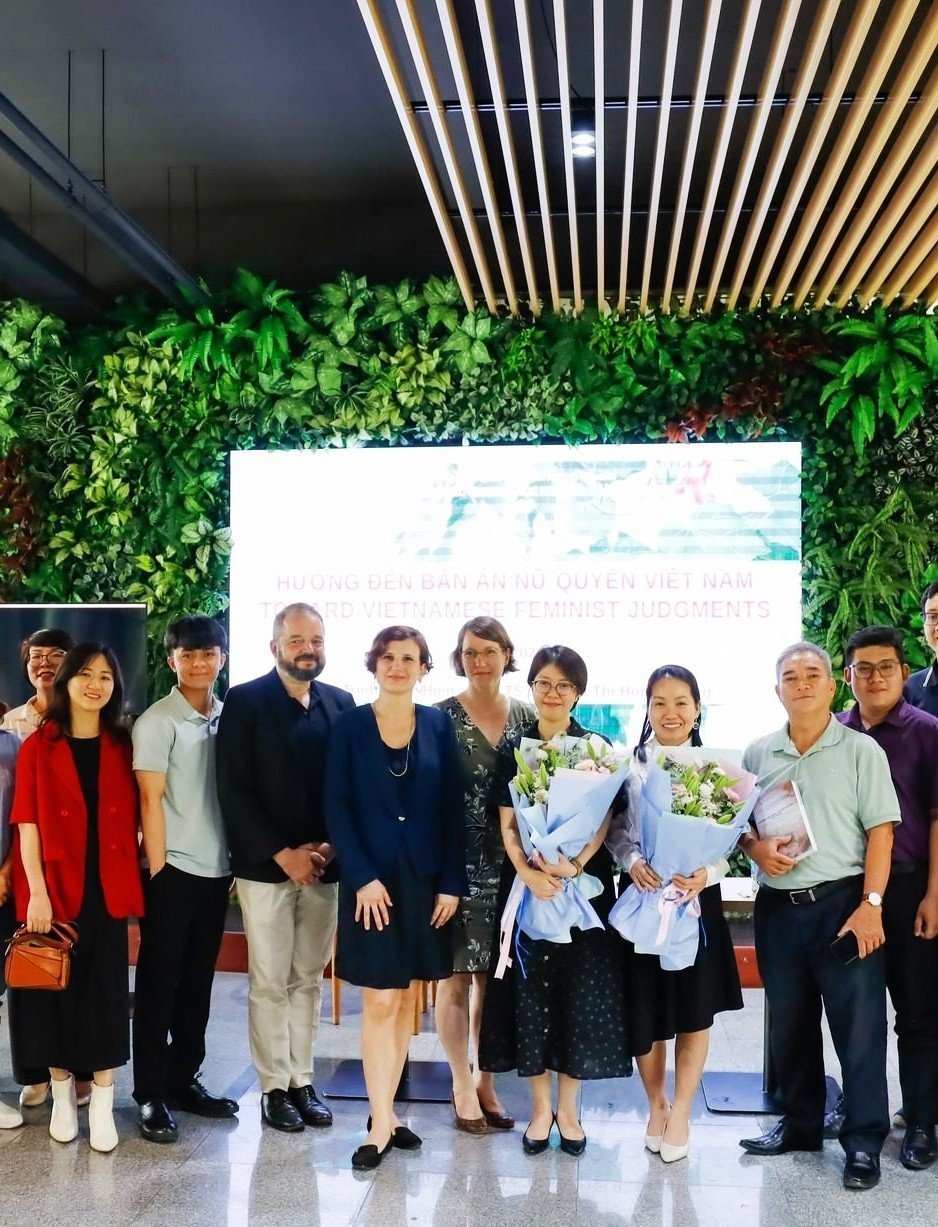
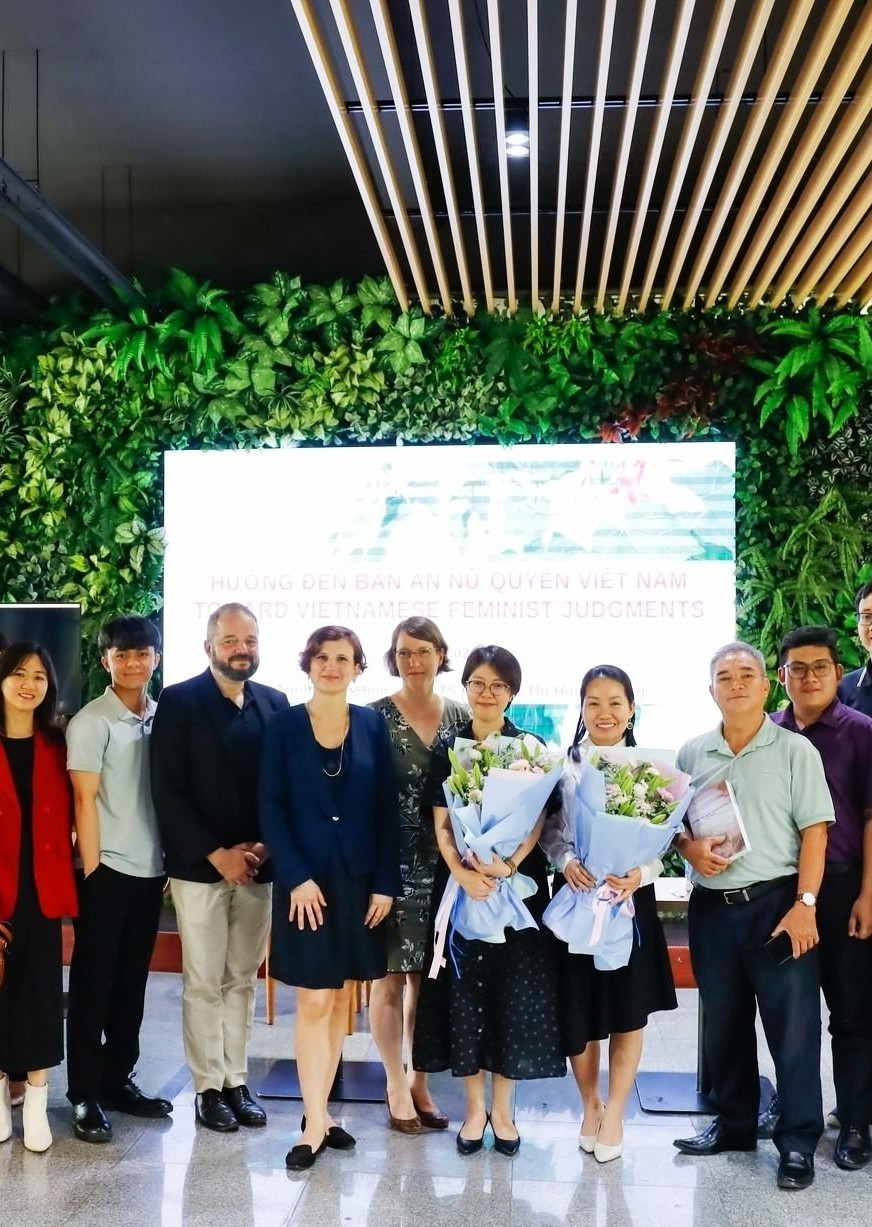
update

diff --git a/works/index.html b/works/index.html
@@ -34,7 +34,7 @@
             align-items: center;
             margin: 0;
             background: #0f1c2d url('https://images.unsplash.com/photo-1507842217343-583bb7270b66?auto=format&fit=crop&q=80&w=2000') no-repeat center center / cover;
-            padding: clamp(64px, 8vh, 96px) 0 clamp(132px, 15vh, 168px);
+            padding: 40px 0 80px;
             color: #fff;
             overflow: hidden;
         }
@@ -76,16 +76,17 @@
             z-index: 10;
             width: 100%;
             margin: 0 auto;
-            padding: 0 clamp(16px, 2.4vw, 32px);
+            padding: 0;
         }
 
         .hero-grid {
             display: grid;
-            grid-template-columns: minmax(0, 1fr) minmax(360px, 0.9fr);
+            grid-template-columns: minmax(0, 1.05fr) minmax(440px, 0.95fr);
             grid-template-areas:
                 "copy quote"
                 "description quote";
-            max-width: 1680px;
+            width: 90%;
+            max-width: 1200px;
             margin: 0 auto;
             column-gap: clamp(32px, 4vw, 72px);
             row-gap: 12px;
@@ -95,22 +96,25 @@
         .hero-copy {
             grid-area: copy;
             align-self: end;
-            padding-left: clamp(12px, 2vw, 28px);
         }
 
         .hero-eyebrow {
-            display: inline-block;
-            padding: 8px 18px;
-            margin-bottom: 24px;
-            background: rgba(255, 255, 255, 0.1);
-            backdrop-filter: blur(4px);
-            border: 1px solid rgba(255, 255, 255, 0.2);
+            display: inline-flex;
+            align-items: center;
+            width: fit-content;
+            min-height: 38px;
+            padding: 0 24px;
+            margin: 0 0 24px;
             border-radius: 999px;
-            color: #fdf2f8;
-            font: 700 0.75rem/1 'Lato', sans-serif;
-            letter-spacing: 0.25em;
+            background: rgba(134, 58, 110, 0.45);
+            border: 1px solid rgba(255, 255, 255, 0.3);
+            color: #fff;
+            font-family: 'Lato', sans-serif !important;
+            font-size: 0.82rem;
+            font-weight: 700;
+            line-height: 1 !important;
             text-transform: uppercase;
-            box-shadow: 0 4px 12px rgba(0, 0, 0, 0.1);
+            letter-spacing: 0.05em;
             transition: transform 0.3s ease;
         }
         
@@ -156,9 +160,8 @@
 
         .hero-description {
             grid-area: description;
-            max-width: 95%;
+            max-width: none;
             margin: -6px 0 0;
-            padding-left: clamp(12px, 2vw, 28px);
             color: rgba(255, 255, 255, 0.85);
             font-family: 'Lato', sans-serif;
             font-size: clamp(1.05rem, 1.4vw, 1.15rem);
@@ -172,6 +175,7 @@
             align-self: center;
             justify-self: end;
             width: 100%;
+            transform: translateY(-40px); /* Moved up slightly more */
         }
 
         .hero-quote-card {
@@ -205,8 +209,8 @@
             z-index: 1;
             margin: 0 0 20px;
             font-family: 'Cambria', Georgia, serif;
-            font-size: clamp(1.2rem, 1.7vw, 1.6rem);
-            line-height: 1.45;
+            font-size: clamp(1.15rem, 1.6vw, 1.5rem);
+            line-height: 1.35;
             color: #fff;
             font-style: italic;
             font-weight: 400;
@@ -285,11 +289,12 @@
 
         /* Section Block Styling - Synchronized */
         .page-section {
-            padding: 80px 5%;
+            padding: 80px 0;
         }
 
         .section-shell {
-            max-width: 1240px;
+            width: 90%;
+            max-width: 1200px;
             margin: 0 auto;
         }
 
@@ -1091,7 +1096,7 @@
         @media (max-width: 1024px) {
             .academic-hero {
                 min-height: calc(100svh - 74px);
-                padding-bottom: 120px;
+                padding: 40px 0 100px;
             }
             .hero-grid {
                 grid-template-columns: 1fr;
@@ -1164,7 +1169,7 @@
             .academic-hero {
                 min-height: calc(100svh - 64px);
                 border-bottom: 3px solid var(--accent-pink);
-                padding: 44px 0 96px;
+                padding: 30px 0 80px;
             }
             .hero-shell {
                 padding: 0 16px;
@@ -1286,13 +1291,13 @@
                         <div class="hero-quote-icon" aria-hidden="true">
                             <svg fill="currentColor" viewBox="0 0 24 24"><path d="M13 14.725c0-5.141 3.892-10.519 10-11.725l.998 1.965c-3.231.87-5.498 3.06-5.998 5.088h4v8.672h-9v-4zm-13 0c0-5.141 3.892-10.519 10-11.725l.998 1.965c-3.231.87-5.498 3.06-5.998 5.088h4v8.672h-9v-4z"/></svg>
                         </div>
-                        <p class="hero-quote-text">"Empowering the legal landscape through critical <span>gender-sensitive</span> analysis."</p>
+                        <p class="hero-quote-text">"Empowering the legal landscape through critical <span>gender-sensitive</span>&nbsp;analysis."</p>
                         <p class="hero-quote-source">Project Mission Statement</p>
                     </div>
                 </div>
 
                 <p class="hero-description">
-This section provides open and lasting access to the project’s key outputs, including publications, teaching resources, feminist judgments, and academic activities. It serves as a long-term archive of research, conference records, and legal knowledge developed by the UEL Feminist Legal Theory Project.                </p>
+This section provides open and lasting access to the project’s key outputs, including publications, teaching resources, feminist judgments, and academic activities. It serves as a long-term archive of research, conference records, and legal knowledge developed by the UEL Feminist Legal Theory&nbsp;Project.                </p>
             </div>
         </div>
     </section>

diff --git a/vi/works/index.html b/vi/works/index.html
@@ -35,7 +35,7 @@
             align-items: center;
             margin: 0;
             background: #0f1c2d url('https://images.unsplash.com/photo-1507842217343-583bb7270b66?auto=format&fit=crop&q=80&w=2000') no-repeat center center / cover;
-            padding: clamp(64px, 8vh, 96px) 0 clamp(132px, 15vh, 168px);
+            padding: 40px 0 80px;
             color: #fff;
             overflow: hidden;
         }
@@ -77,16 +77,17 @@
             z-index: 10;
             width: 100%;
             margin: 0 auto;
-            padding: 0 clamp(16px, 2.4vw, 32px);
+            padding: 0;
         }
 
         .hero-grid {
             display: grid;
-            grid-template-columns: minmax(0, 1fr) minmax(360px, 0.9fr);
+            grid-template-columns: minmax(0, 1.05fr) minmax(440px, 0.95fr);
             grid-template-areas:
                 "copy quote"
                 "description quote";
-            max-width: 1680px;
+            width: 90%;
+            max-width: 1200px;
             margin: 0 auto;
             column-gap: clamp(32px, 4vw, 72px);
             row-gap: 12px;
@@ -96,22 +97,25 @@
         .hero-copy {
             grid-area: copy;
             align-self: end;
-            padding-left: clamp(12px, 2vw, 28px);
         }
 
         .hero-eyebrow {
-            display: inline-block;
-            padding: 8px 18px;
-            margin-bottom: 24px;
-            background: rgba(255, 255, 255, 0.1);
-            backdrop-filter: blur(4px);
-            border: 1px solid rgba(255, 255, 255, 0.2);
+            display: inline-flex;
+            align-items: center;
+            width: fit-content;
+            min-height: 38px;
+            padding: 0 24px;
+            margin: 0 0 24px;
             border-radius: 999px;
-            color: #fdf2f8;
-            font: 700 0.75rem/1 'Lato', sans-serif;
-            letter-spacing: 0.25em;
+            background: rgba(134, 58, 110, 0.45);
+            border: 1px solid rgba(255, 255, 255, 0.3);
+            color: #fff;
+            font-family: 'Lato', sans-serif !important;
+            font-size: 0.82rem;
+            font-weight: 700;
+            line-height: 1 !important;
             text-transform: uppercase;
-            box-shadow: 0 4px 12px rgba(0, 0, 0, 0.1);
+            letter-spacing: 0.05em;
             transition: transform 0.3s ease;
         }
         
@@ -157,9 +161,8 @@
 
         .hero-description {
             grid-area: description;
-            max-width: 95%;
+            max-width: none;
             margin: -6px 0 0;
-            padding-left: clamp(12px, 2vw, 28px);
             color: rgba(255, 255, 255, 0.85);
             font-family: 'Lato', sans-serif;
             font-size: clamp(1.05rem, 1.4vw, 1.15rem);
@@ -173,6 +176,7 @@
             align-self: center;
             justify-self: end;
             width: 100%;
+            transform: translateY(-40px); /* Moved up slightly more */
         }
 
         .hero-quote-card {
@@ -206,8 +210,8 @@
             z-index: 1;
             margin: 0 0 20px;
             font-family: 'Cambria', Georgia, serif;
-            font-size: clamp(1.2rem, 1.7vw, 1.6rem);
-            line-height: 1.45;
+            font-size: clamp(1.15rem, 1.6vw, 1.5rem);
+            line-height: 1.35;
             color: #fff;
             font-style: italic;
             font-weight: 400;
@@ -286,11 +290,12 @@
 
         /* Section Block Styling - Synchronized */
         .page-section {
-            padding: 80px 5%;
+            padding: 80px 0;
         }
 
         .section-shell {
-            max-width: 1240px;
+            width: 90%;
+            max-width: 1200px;
             margin: 0 auto;
         }
 
@@ -1092,7 +1097,7 @@
         @media (max-width: 1024px) {
             .academic-hero {
                 min-height: calc(100svh - 74px);
-                padding-bottom: 120px;
+                padding: 40px 0 100px;
             }
             .hero-grid {
                 grid-template-columns: 1fr;
@@ -1165,7 +1170,7 @@
             .academic-hero {
                 min-height: calc(100svh - 64px);
                 border-bottom: 3px solid var(--accent-pink);
-                padding: 44px 0 96px;
+                padding: 30px 0 80px;
             }
             .hero-shell {
                 padding: 0 16px;

diff --git a/vi/works/moot-court/index.html b/vi/works/moot-court/index.html
@@ -559,18 +559,23 @@
 
         /* Hero Eyebrow Styling */
         .hero-eyebrow {
-            display: inline-block;
-            padding: 8px 18px;
-            margin-bottom: 24px;
-            background: rgba(255, 255, 255, 0.1);
-            backdrop-filter: blur(4px);
-            -webkit-backdrop-filter: blur(4px);
-            border: 1px solid rgba(255, 255, 255, 0.2);
+            display: inline-flex;
+            align-items: center;
+            width: fit-content;
+            min-height: 38px;
+            padding: 0 24px;
+            margin: 0 0 24px;
             border-radius: 999px;
-            color: #fdf2f8;
-            font: 700 0.75rem/1 'Lato', sans-serif;
-            letter-spacing: 0.25em;
+            background: rgba(134, 58, 110, 0.45);
+            border: 1px solid rgba(255, 255, 255, 0.3);
+            color: #fff;
+            font-family: 'Lato', sans-serif !important;
+            font-size: 0.82rem;
+            font-weight: 700;
+            line-height: 1 !important;
             text-transform: uppercase;
+            letter-spacing: 0.05em;
+            transition: transform 0.3s ease;
         }
 
         /* Anchor Offset */

diff --git a/works/moot-court/index.html b/works/moot-court/index.html
@@ -556,18 +556,23 @@
 
         /* Hero Eyebrow Styling */
         .hero-eyebrow {
-            display: inline-block;
-            padding: 8px 18px;
-            margin-bottom: 24px;
-            background: rgba(255, 255, 255, 0.1);
-            backdrop-filter: blur(4px);
-            -webkit-backdrop-filter: blur(4px);
-            border: 1px solid rgba(255, 255, 255, 0.2);
+            display: inline-flex;
+            align-items: center;
+            width: fit-content;
+            min-height: 38px;
+            padding: 0 24px;
+            margin: 0 0 24px;
             border-radius: 999px;
-            color: #fdf2f8;
-            font: 700 0.75rem/1 'Lato', sans-serif;
-            letter-spacing: 0.25em;
+            background: rgba(134, 58, 110, 0.45);
+            border: 1px solid rgba(255, 255, 255, 0.3);
+            color: #fff;
+            font-family: 'Lato', sans-serif !important;
+            font-size: 0.82rem;
+            font-weight: 700;
+            line-height: 1 !important;
             text-transform: uppercase;
+            letter-spacing: 0.05em;
+            transition: transform 0.3s ease;
         }
 
         /* Anchor Offset */
